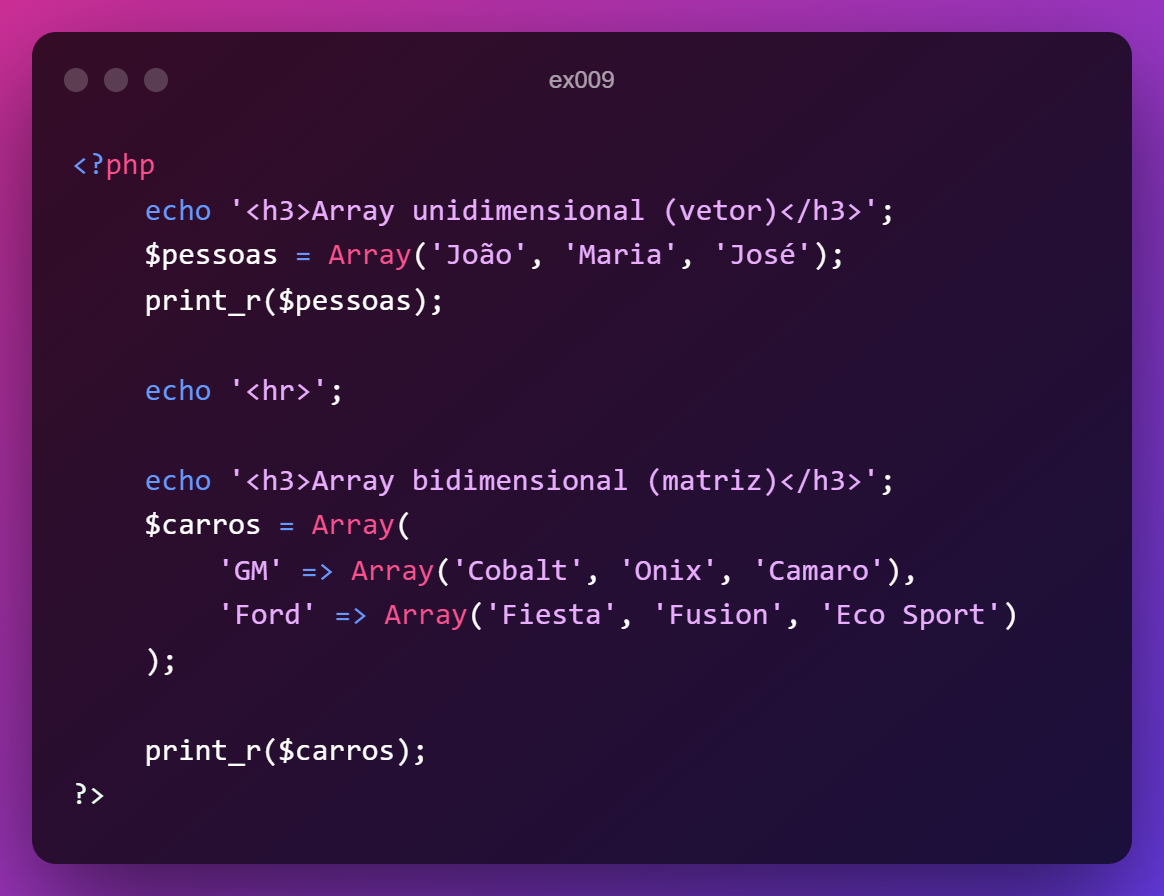
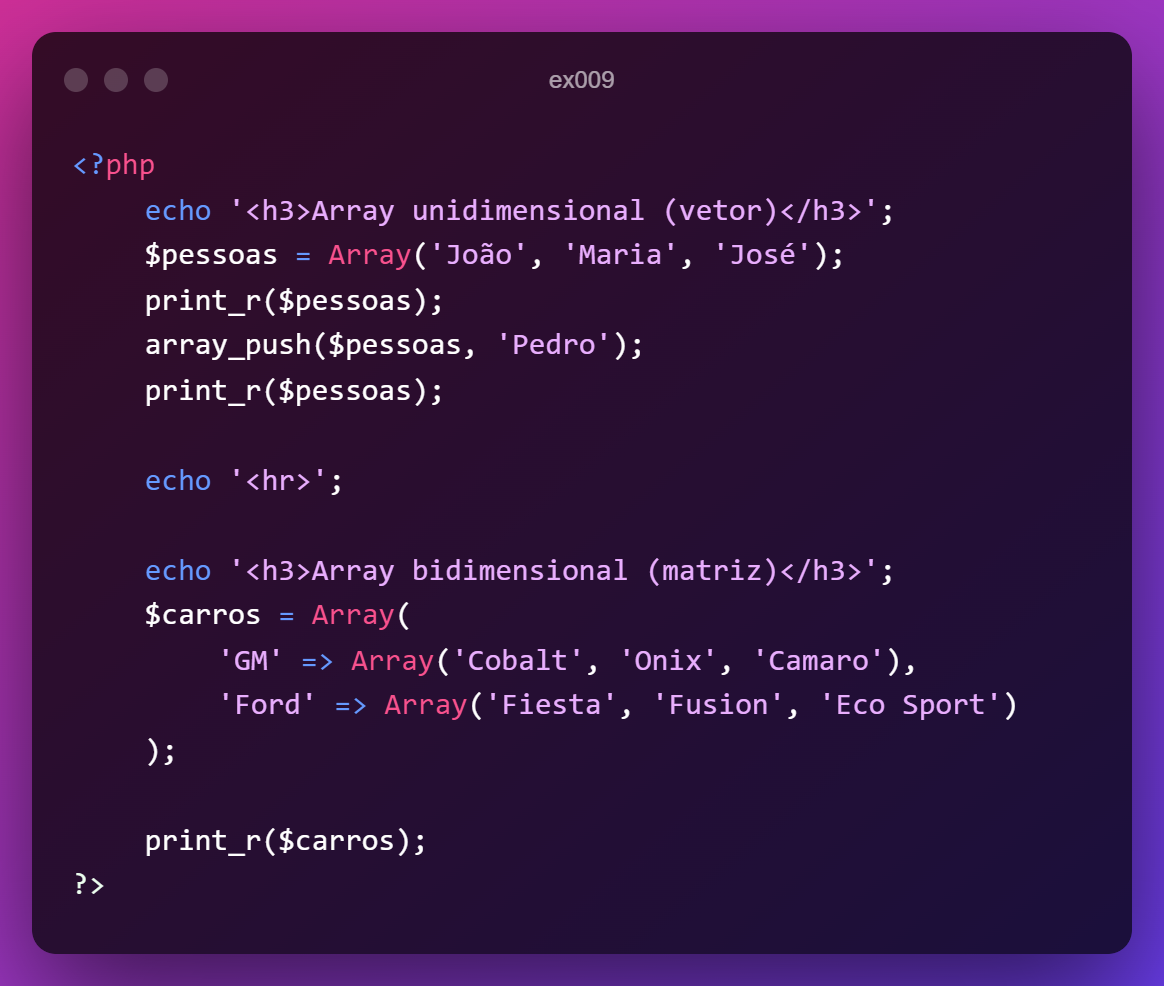
fix: update example with array_push function

diff --git a/exercicios/ex009.php b/exercicios/ex009.php
@@ -5,6 +5,8 @@
             <div class="content">
                 <p>O exercício abaixo demonstra a criação de dois arrays - <strong>unidimensional (vetor)</strong> e <strong>bidimensional (matriz)</strong>.</p>
 
+                <p>A função <code>array_push()</code> adiciona novos itens a um array existente. Seu primeiro argumento refere-se ao array enquanto que o segundo trata-se do valor que queremos adicionar.</p>
+
                 <p><img src="../assets/images/ex009.png" alt="Exemplos de array unidimensional e bidimensional"></p>
             </div>
             <div class="result">
@@ -12,6 +14,8 @@
                 <?php 
                     echo '<h3>Array unidimensional (vetor)</h3>';
                     $pessoas = Array('João', 'Maria', 'José');
+                    print_r($pessoas);
+                    array_push($pessoas, 'Pedro');
                     print_r($pessoas);
 
                     echo '<hr>';
